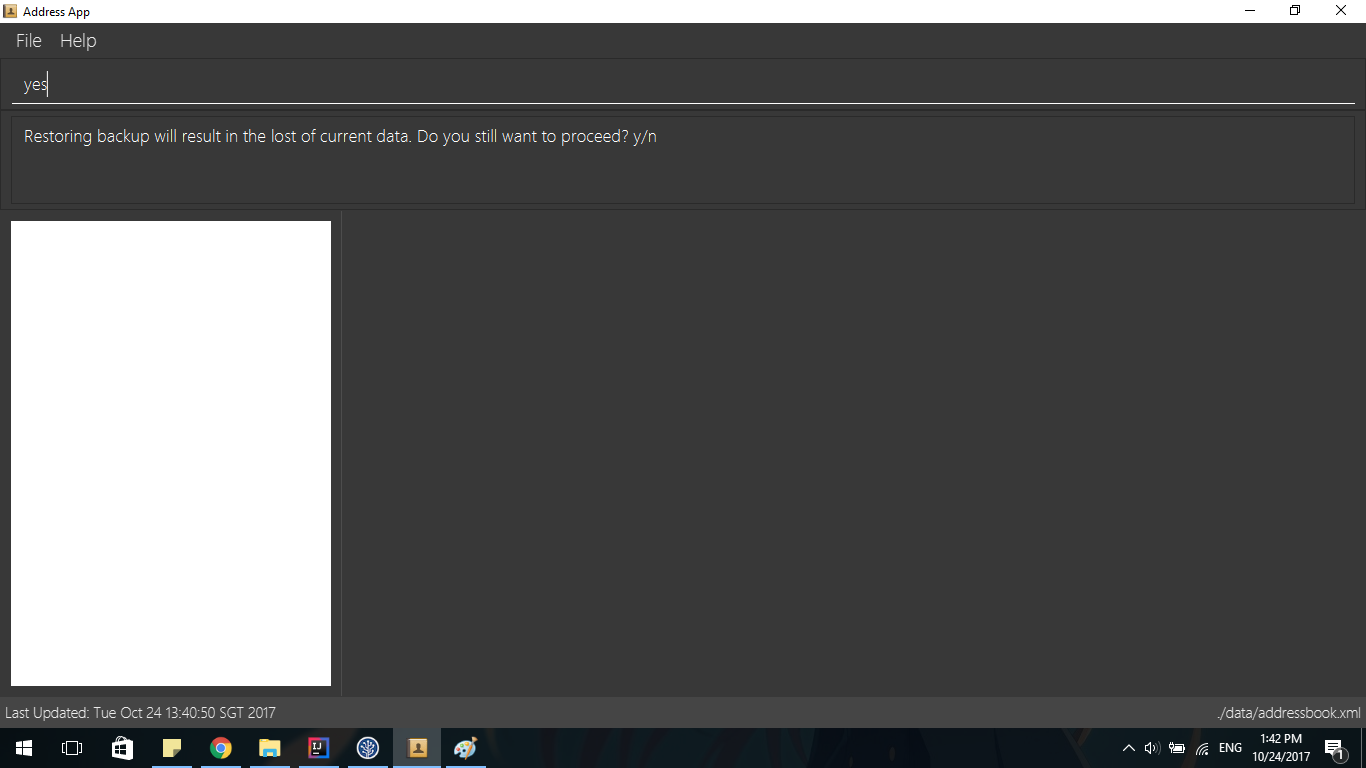
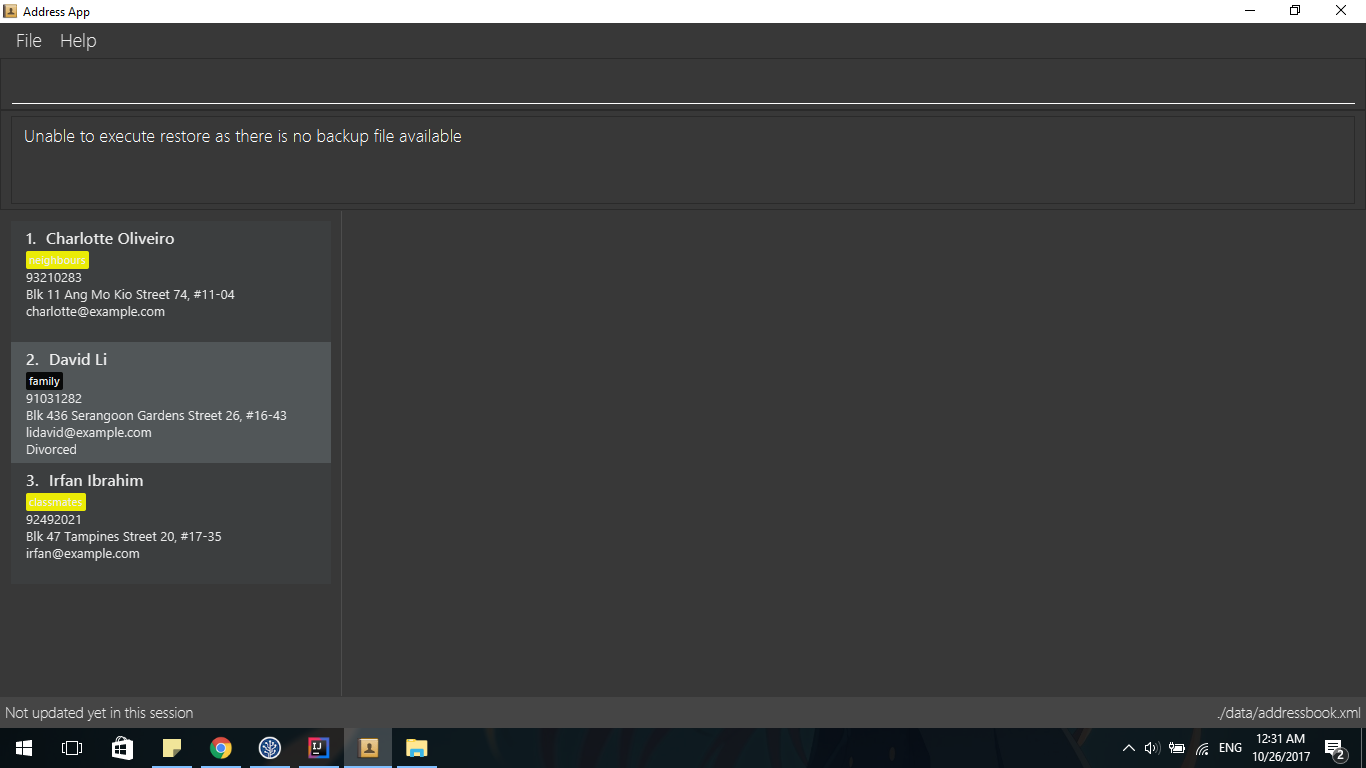
Rebuild pages at 601e04178274d151418784bcb55fb0fc7fa1a9cf

diff --git a/DeveloperGuide.html b/DeveloperGuide.html
@@ -773,8 +773,9 @@ If the <code>redoStack</code> is empty, then there are no other commands left to
 <div class="sect3">
 <h4 id="mechanism-2"><a class="link" href="#mechanism-2">3.2.1. Mechanism</a></h4>
 <div class="paragraph">
-<p>The backing up of DummyName is done by <code>BackupCommand</code> and the restoring of data from a backup file is done by <code>RestoreBackupCommand</code>. These commands do not support the undoing and redoing of user actions and thus, inherits from <code>Command</code>.
-These commands require access to <code>Storage</code> from <code>Logic</code> and the way to accomplish this is to post an event to <code>EventCenter</code>. <code>Subscribers</code> in <code>StorageManager</code> will handle these events and respond correspondingly.
+<p>The backing up of DummyName is done by <code>BackupCommand</code> and the restoring of data from a backup file is done by <code>RestoreBackupCommand</code>.
+<code>BackupCommand</code> inherits from <code>Command</code> as it does not support the undoing and redoing of user actions, whereas <code>RestoreBackupCommand</code> inherits from <code>UndoableCommand</code>.
+These commands require access to <code>Storage</code> from <code>Logic</code> and the way to accomplish this is to post an event to <code>EventsCenter</code>. <code>Subscribers</code> in <code>StorageManager</code> will handle these events and respond correspondingly.
 The following shows a sequence diagram of how the <code>BackupCommand</code> is carried out.</p>
 </div>
 <div class="imageblock">
@@ -795,7 +796,7 @@ The following shows a sequence diagram of how the <code>BackupCommand</code> is 
 </table>
 </div>
 <div class="paragraph">
-<p>The <code>BackupCommand</code> is executed when the commands <code>backup</code> or <code>b</code> are entered. The data that is in <code>model</code> or the active address book is first passed as a parameter to <code>BackupDataEvent</code>. The event will be handled by <code>StorageManager</code> and is saved into the default file path "data/addressbook-backup.xml".
+<p>The <code>BackupCommand</code> is executed when the commands <code>backup</code> or <code>b</code> is entered. The data that is in <code>model</code> or the active address book is first passed as a parameter to <code>BackupDataEvent</code>. The event will be handled by <code>StorageManager</code> and is saved into the default file path "data/addressbook-backup.xml".
 The following is the implementation of <code>BackupCommand</code>:</p>
 </div>
 <div class="listingblock">
@@ -816,7 +817,7 @@ The following is the implementation of <code>BackupCommand</code>:</p>
 </div>
 </div>
 <div class="paragraph">
-<p>The <code>RestoreBackupCommand</code> is executed when the commands <code>restore</code> or <code>rb</code> are entered. <code>RestoreBackupDataEvent</code> is posted and <code>StorageManager</code> handles it.
+<p>The <code>RestoreBackupCommand</code> is executed when the commands <code>restore</code> or <code>rb</code> is entered. <code>RestoreBackupDataEvent</code> is posted and <code>StorageManager</code> handles it.
 The data from default file path "data/addressbook-backup.xml" will be retrieved and it will replace the active address book.
 The following is the implementation of <code>RestoreBackupCommand</code>:</p>
 </div>
@@ -827,6 +828,8 @@ The following is the implementation of <code>RestoreBackupCommand</code>:</p>
 
     <span class="annotation">@Override</span>
     <span class="directive">public</span> CommandResult execute() <span class="directive">throws</span> CommandException {
+        <span class="comment">//... other codes and checks...</span>
+
         RestoreBackupDataEvent event = <span class="keyword">new</span> RestoreBackupDataEvent();
 
         <span class="comment">// posting event to help with restoring backup data</span>
@@ -836,21 +839,16 @@ The following is the implementation of <code>RestoreBackupCommand</code>:</p>
         ReadOnlyAddressBook backupAddressBookData = event.getAddressBookData();
         model.resetData(backupAddressBookData);
         <span class="keyword">return</span> <span class="keyword">new</span> CommandResult(<span class="predefined-type">String</span>.format(MESSAGE_SUCCESS));
+
+        <span class="comment">//... other codes and checks...</span>
     }
 }</code></pre>
 </div>
 </div>
-<div class="admonitionblock note">
-<table>
-<tr>
-<td class="icon">
-<i class="fa icon-note" title="Note"></i>
-</td>
-<td class="content">
-Once the data has been restored, the original data will be lost and is no longer retrievable.
-</td>
-</tr>
-</table>
+<div class="paragraph">
+<p>If the backup file does not exist in the default file path, an error message will be shown to the user.
+This check is done before <code>RestoreBackupEvent</code> is posted. Once again, this requires <code>Logic</code> to access <code>Storage</code>.
+Therefore, a <code>BackupFilePresentEvent</code> will be posted and the <code>Subscriber</code> in <code>StorageManager</code> would handle this event to check if the backup file exist.</p>
 </div>
 <div class="admonitionblock note">
 <table>
@@ -859,7 +857,7 @@ Once the data has been restored, the original data will be lost and is no longer
 <i class="fa icon-note" title="Note"></i>
 </td>
 <td class="content">
-A backup of address book is always created when the Address Book starts. This means that <code>RestoreBackupCommand</code> will not encounter an <code>IOException</code> where the file does not exist.
+A backup of the data is automatically created when <strong>DummyName</strong> is closed.
 </td>
 </tr>
 </table>
@@ -2412,7 +2410,7 @@ Use case ends.</p>
 </div>
 <div id="footer">
 <div id="footer-text">
-Last updated 2017-10-26 02:08:25 +00:00
+Last updated 2017-10-26 03:22:57 +00:00
 </div>
 </div>
 </body>

diff --git a/UserGuide.html b/UserGuide.html
@@ -1111,24 +1111,14 @@ Format: <code>restore</code></p>
 </li>
 <li>
 <p>Type in <code>restore</code> command. (Figure 4.13.3)<br>
-<code>restore</code><br>
+<code>&gt;&gt; restore</code><br>
 <span class="image"><img src="images/Restore_3.png" alt="600"></span><br>
 <em>Figure 4.13.3</em><br></p>
 </li>
 <li>
-<p>Press <code>Enter</code> and you should see that <strong>DummyName</strong> asks you for permission to carry on with the command. (Figure 4.13.4)<br>
+<p>Press <code>Enter</code> and you should see that the backup data is restored. (Figure 4.13.4)<br>
 <span class="image"><img src="images/Restore_4.png" alt="600"></span><br>
 <em>Figure 4.13.4</em><br></p>
-</li>
-<li>
-<p>Enter <code>yes</code> if you want to recover the data and <code>no</code> if you change your mind. In this case, we will type in <code>yes</code>. (Figure 4.13.5)<br>
-<span class="image"><img src="images/Restore_5.png" alt="600"></span><br>
-<em>Figure 4.13.5</em><br></p>
-</li>
-<li>
-<p>Press <code>Enter</code> and you should see that your backup has been restored. (Figure 4.13.6)<br>
-<span class="image"><img src="images/Restore_6.png" alt="600"></span><br>
-<em>Figure 4.13.6</em><br></p>
 </li>
 </ol>
 </div>
@@ -1139,14 +1129,14 @@ Format: <code>restore</code></p>
 <i class="fa icon-note" title="Note"></i>
 </td>
 <td class="content">
-An error message will be shown if you do not already have a backup file in the default file path. (Figure 4.13.7)
+An error message will be shown if you do not already have a backup file in the default file path. (Figure 4.13.5)
 </td>
 </tr>
 </table>
 </div>
 <div class="paragraph">
-<p><span class="image"><img src="images/Restore_7.png" alt="600"></span><br>
-<em>Figure 4.13.7</em><br></p>
+<p><span class="image"><img src="images/Restore_5.png" alt="600"></span><br>
+<em>Figure 4.13.5</em><br></p>
 </div>
 </div>
 <div class="sect2">
@@ -1862,7 +1852,7 @@ will open up a new window in your default browser.</p>
 </div>
 <div id="footer">
 <div id="footer-text">
-Last updated 2017-10-26 02:08:25 +00:00
+Last updated 2017-10-26 03:22:57 +00:00
 </div>
 </div>
 </body>

diff --git a/UsingGradle.html b/UsingGradle.html
@@ -261,7 +261,7 @@ See <code>build.gradle</code> &#8594; <code>allprojects</code> &#8594; <code>dep
 </div>
 <div id="footer">
 <div id="footer-text">
-Last updated 2017-10-26 02:08:25 +00:00
+Last updated 2017-10-26 03:22:57 +00:00
 </div>
 </div>
 </body>

diff --git a/team/johndoe.html b/team/johndoe.html
@@ -529,7 +529,7 @@ If the <code>redoStack</code> is empty, then there are no other commands left to
 </div>
 <div id="footer">
 <div id="footer-text">
-Last updated 2017-10-26 02:08:25 +00:00
+Last updated 2017-10-26 03:22:57 +00:00
 </div>
 </div>
 </body>

diff --git a/UsingTravis.html b/UsingTravis.html
@@ -299,7 +299,7 @@ Suggested change: Remove the codacy badge from <code>README</code>.</p>
 </div>
 <div id="footer">
 <div id="footer-text">
-Last updated 2017-10-26 02:08:25 +00:00
+Last updated 2017-10-26 03:22:57 +00:00
 </div>
 </div>
 </body>

diff --git a/AboutUs.html b/AboutUs.html
@@ -94,7 +94,7 @@ Responsibilities: Model, Deliverables and deadlines</p>
 </div>
 <div id="footer">
 <div id="footer-text">
-Last updated 2017-10-26 02:08:25 +00:00
+Last updated 2017-10-26 03:22:57 +00:00
 </div>
 </div>
 </body>

diff --git a/UsingCheckstyle.html b/UsingCheckstyle.html
@@ -103,7 +103,7 @@ Restart the IDE to complete the installation.</p>
 </div>
 <div id="footer">
 <div id="footer-text">
-Last updated 2017-10-26 02:08:25 +00:00
+Last updated 2017-10-26 03:22:57 +00:00
 </div>
 </div>
 </body>

diff --git a/TestDocument.html b/TestDocument.html
@@ -178,7 +178,7 @@ This should be on a new line.</p>
 </div>
 <div id="footer">
 <div id="footer-text">
-Last updated 2017-10-26 02:08:25 +00:00
+Last updated 2017-10-26 03:22:57 +00:00
 </div>
 </div>
 </body>

diff --git a/UsingAppVeyor.html b/UsingAppVeyor.html
@@ -174,7 +174,7 @@ grant access:</p>
 </div>
 <div id="footer">
 <div id="footer-text">
-Last updated 2017-10-26 02:08:25 +00:00
+Last updated 2017-10-26 03:22:57 +00:00
 </div>
 </div>
 </body>

diff --git a/FeatureTracking.html b/FeatureTracking.html
@@ -124,7 +124,7 @@
 </div>
 <div id="footer">
 <div id="footer-text">
-Last updated 2017-10-26 02:08:25 +00:00
+Last updated 2017-10-26 03:22:57 +00:00
 </div>
 </div>
 </body>

diff --git a/ContactUs.html b/ContactUs.html
@@ -31,7 +31,7 @@
 </div>
 <div id="footer">
 <div id="footer-text">
-Last updated 2017-10-26 02:08:25 +00:00
+Last updated 2017-10-26 03:22:57 +00:00
 </div>
 </div>
 </body>

diff --git a/index.html b/index.html
@@ -87,7 +87,7 @@
 </div>
 <div id="footer">
 <div id="footer-text">
-Last updated 2017-10-26 02:08:25 +00:00
+Last updated 2017-10-26 03:22:57 +00:00
 </div>
 </div>
 </body>
